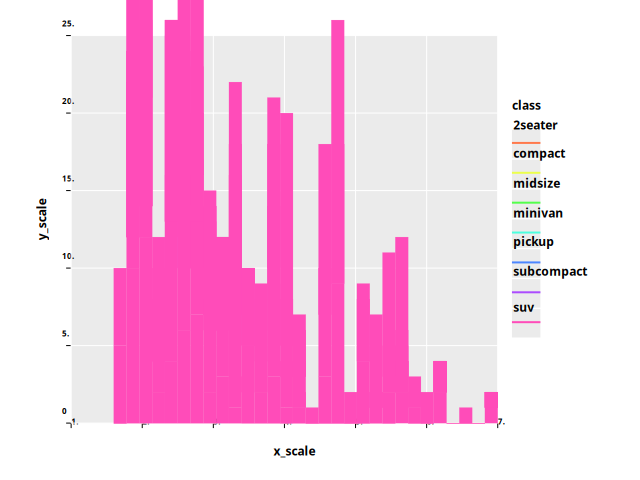
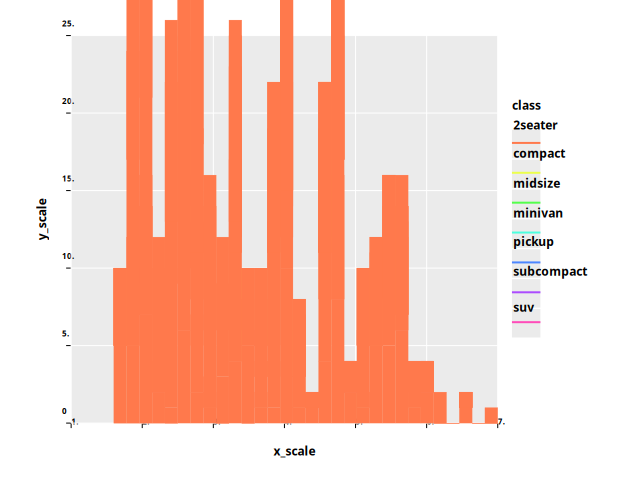
clean up _filled_bin_geom_map

Changed region(s): [[0.1562, 0.0, 0.7812, 0.9062]]

diff --git a/src/python_ggplot/gg/geom/utils.py b/src/python_ggplot/gg/geom/utils.py
@@ -1,5 +1,6 @@
 from copy import deepcopy
 from typing import TYPE_CHECKING, Any, List, Optional, Tuple
+from itertools import product
 
 import numpy as np
 import pandas as pd
@@ -386,10 +387,19 @@ def _filled_bin_geom_map(
 ) -> "FilledGeom":
     from python_ggplot.gg.styles.utils import apply_style
     grouped = df.groupby(filled_stat_geom.map_discrete_columns, sort=True)  # type: ignore TODO
+
+    sorted_keys = sorted(grouped.groups.keys(), reverse=True)  # type: ignore
     col = pd.Series(dtype=float)
 
-    for keys, sub_df in grouped:  # type: ignore
-        apply_style(style, sub_df, filled_stat_geom.discrete_scales, [(keys[0], VString(i)) for i in grouped.groups])  # type: ignore
+    for keys in sorted_keys:  # type: ignore
+        sub_df = grouped.get_group(keys)  # type: ignore
+        key_values = list(product(filled_stat_geom.map_discrete_columns, [keys]))  # type: ignore
+        apply_style(
+            style,
+            sub_df,
+            filled_stat_geom.discrete_scales,
+            key_values
+        )  # type: ignore
         hist, bins, _ = call_histogram(
             filled_stat_geom.geom,
             sub_df,  # type: ignore
@@ -397,6 +407,7 @@ def _filled_bin_geom_map(
             filled_scales.get_weight_scale(filled_stat_geom.geom, optional=True),
             filled_stat_geom.x.gg_data.discrete_kind.data_scale,  # type: ignore TODO
         )
+
         count_col = filled_stat_geom.count_col()  # type: ignore
         yield_df = pd.DataFrame(
             {filled_stat_geom.x.get_col_name(): bins, count_col: hist}
@@ -645,6 +656,7 @@ def filled_bin_geom(
     filled_scales: "FilledScales",
     style: "GGStyle",
 ) -> "FilledGeom":
+
     if len(filled_stat_geom.map_discrete_columns) > 0:
         filled_geom = _filled_bin_geom_map(
             df, filled_scales, filled_stat_geom, filled_geom, style

diff --git a/src/python_ggplot/gg/styles/utils.py b/src/python_ggplot/gg/styles/utils.py
@@ -169,7 +169,6 @@ def apply_style(
             if scale.is_discrete():
                 is_col = col in df.columns
                 discrete_scale = cast(GGScaleDiscrete, scale.gg_data.discrete_kind)
-
                 if not is_col:
                     col_vals = scale.gg_data.col.evaluate(df)
                     if len(col_vals.unique()) > 1:
